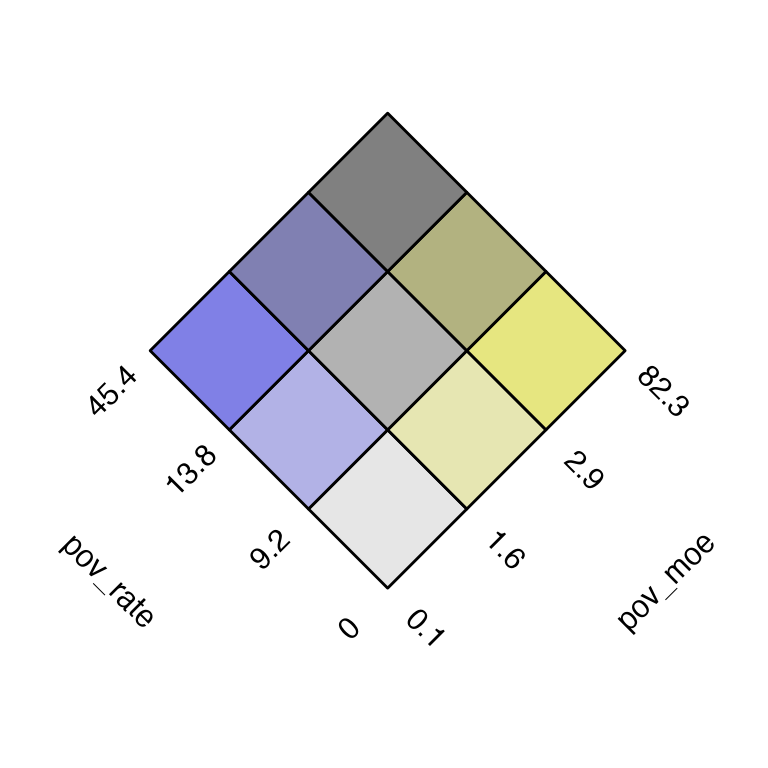
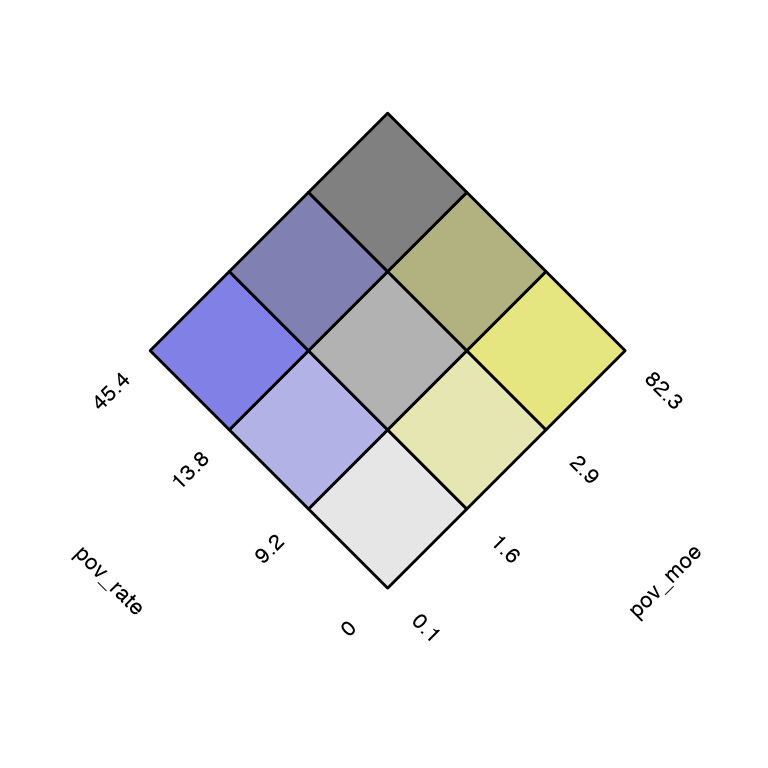
use patchwork to pair map and key

diff --git a/docs/reference/build_gkey.html b/docs/reference/build_gkey.html
@@ -40,7 +40,8 @@
 
 
 <meta property="og:title" content="Build a glyph key — build_gkey" />
-<meta property="og:description" content="This function creates a key of rotated glyphs for a map produced with build_gmap." />
+<meta property="og:description" content="This function creates a key of rotated glyphs for a map produced with
+build_gmap." />
 
 
 
@@ -114,10 +115,11 @@
     </div>
 
     <div class="ref-description">
-    <p>This function creates a key of rotated glyphs for a map produced with <code><a href='build_gmap.html'>build_gmap</a></code>.</p>
+    <p>This function creates a key of rotated glyphs for a map produced with
+<code><a href='build_gmap.html'>build_gmap</a></code>.</p>
     </div>
 
-    <pre class="usage"><span class='fu'>build_gkey</span><span class='op'>(</span><span class='va'>data</span>, glyph <span class='op'>=</span> <span class='st'>"icone"</span><span class='op'>)</span></pre>
+    <pre class="usage"><span class='fu'>build_gkey</span><span class='op'>(</span><span class='va'>data</span>, glyph <span class='op'>=</span> <span class='st'>"icone"</span>, fontSize <span class='op'>=</span> <span class='fl'>3</span>, transparent <span class='op'>=</span> <span class='cn'>FALSE</span><span class='op'>)</span></pre>
 
     <h2 class="hasAnchor" id="arguments"><a class="anchor" href="#arguments"></a>Arguments</h2>
     <table class="ref-arguments">
@@ -128,17 +130,27 @@
     </tr>
     <tr>
       <th>glyph</th>
-      <td><p>Name of glyph shape. Options include <code>icone</code> and <code>semi</code>.</p></td>
+      <td><p>Name of glyph shape. Options include <code>icone</code> and
+<code>semi</code>.</p></td>
+    </tr>
+    <tr>
+      <th>fontSize</th>
+      <td><p>An integer value. Default is 3.</p></td>
+    </tr>
+    <tr>
+      <th>transparent</th>
+      <td><p>A logical value. Option to make key background transparent.
+Default is FALSE.</p></td>
     </tr>
     </table>
 
     <h2 class="hasAnchor" id="details"><a class="anchor" href="#details"></a>Details</h2>
 
     <p>A key for the glyph map is not automatically generated with
-<code><a href='build_gmap.html'>build_gmap</a></code> and must be made using <code>build_gkey</code>. It is important
-that the arguments passed to <code>build_gkey</code> match those passed to
-<code><a href='build_gmap.html'>build_gmap</a></code>. The map and key can be viewed together using
-<code><a href='attach_key.html'>attach_key</a></code>.</p>
+<code><a href='build_gmap.html'>build_gmap</a></code> and must be made using <code>build_gkey</code>. It
+is important that the arguments passed to <code>build_gkey</code> match those
+passed to <code><a href='build_gmap.html'>build_gmap</a></code>. The map and key can be viewed together
+using <code><a href='attach_key.html'>attach_key</a></code>.</p>
     <h2 class="hasAnchor" id="see-also"><a class="anchor" href="#see-also"></a>See also</h2>
 
     <div class='dont-index'><p><code><a href='attach_key.html'>attach_key</a></code></p></div>

diff --git a/docs/reference/build_bkey.html b/docs/reference/build_bkey.html
@@ -126,7 +126,9 @@ the 3 x 3 colour grid.</p>
   flipAxis <span class='op'>=</span> <span class='cn'>FALSE</span>,
   expertR_est <span class='op'>=</span> <span class='cn'>NA</span>,
   expertR_err <span class='op'>=</span> <span class='cn'>NA</span>,
-  bound <span class='op'>=</span> <span class='cn'>NULL</span>
+  bound <span class='op'>=</span> <span class='cn'>NULL</span>,
+  fontSize <span class='op'>=</span> <span class='fl'>3</span>,
+  transparent <span class='op'>=</span> <span class='cn'>FALSE</span>
 <span class='op'>)</span></pre>
 
     <h2 class="hasAnchor" id="arguments"><a class="anchor" href="#arguments"></a>Arguments</h2>
@@ -168,6 +170,15 @@ error (Default: NA).</p></td>
       <td><p>A vector of eight elements representing the bounds for the
 estimate and error that will be used on the bivariate colour key.  These can
 be created offline using the <code><a href='findNbounds.html'>findNbounds</a></code> function.</p></td>
+    </tr>
+    <tr>
+      <th>fontSize</th>
+      <td><p>An integer value. Default is 3.</p></td>
+    </tr>
+    <tr>
+      <th>transparent</th>
+      <td><p>A logical value. Option to make the key background
+transparent. Default value is FALSE.</p></td>
     </tr>
     </table>
 

diff --git a/docs/articles/Vizumap.html b/docs/articles/Vizumap.html
@@ -70,7 +70,7 @@
       <h1 data-toc-skip>Using Vizumap</h1>
                         <h4 class="author">Lydia Lucchesi and Petra Kuhnert</h4>
             
-            <h4 class="date">2022-03-02</h4>
+            <h4 class="date">2022-04-04</h4>
       
       <small class="dont-index">Source: <a href="https://github.com/lydialucchesi/Vizumap/blob/master/vignettes/Vizumap.Rmd"><code>vignettes/Vizumap.Rmd</code></a></small>
       <div class="hidden name"><code>Vizumap.Rmd</code></div>
